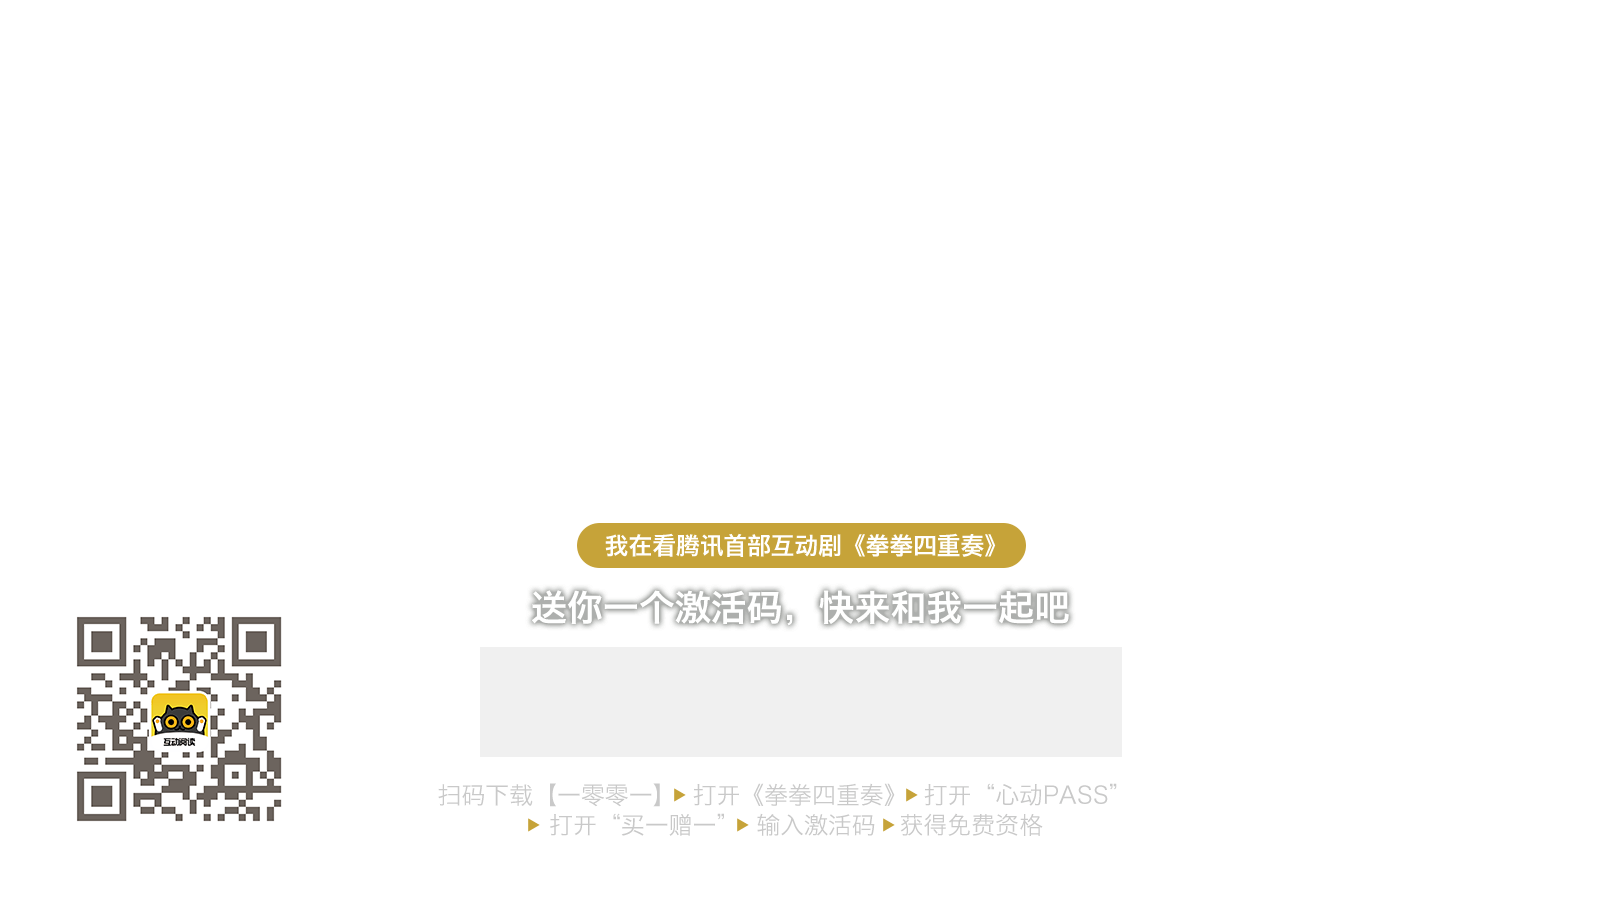
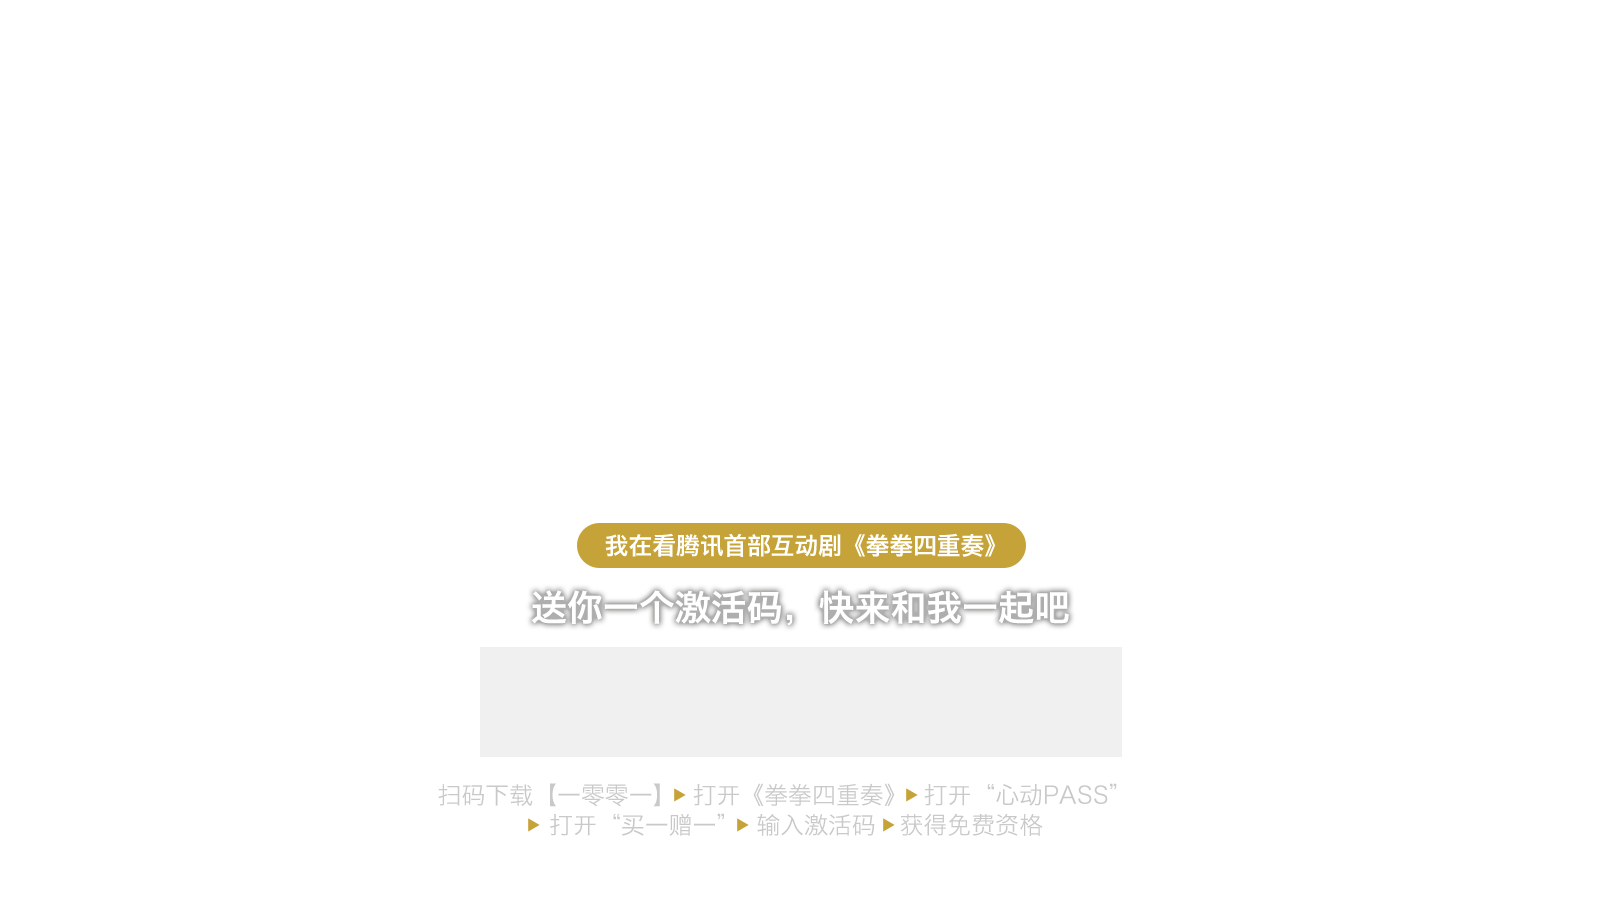
删除二维码/修复BUG

Changed region(s): [[0.0312, 0.6844, 0.1875, 0.9333]]

diff --git a/src/data/TaskManager.ts b/src/data/TaskManager.ts
@@ -1291,14 +1291,12 @@ class TaskManager {
             if (task.check.type === "video") {
                 if (task.check.vid.indexOf("&") !== -1) {
                     const fileList = [UserInfo.curBokData];
-                    for (let key in UserInfo.fileDatas) {
-                        if (UserInfo.fileDatas.hasOwnProperty(key)) {
-                            const file = UserInfo.fileDatas[key];
-                            if (file) {
-                                fileList.push(file);
-                            }
+                    [FILE_TYPE.FILE2, FILE_TYPE.FILE3, FILE_TYPE.FILE4, FILE_TYPE.FILE5, FILE_TYPE.FILE6].forEach(key => {
+                        const file = UserInfo.fileDatas[key];
+                        if (file) {
+                            fileList.push(file);
                         }
-                    }
+                    });
                     if (!task.check.vid.split("&").some(vid => !fileList.some(file => file.allVideos[vid]))) {
                         this.completeTask(task.id);
                     }
